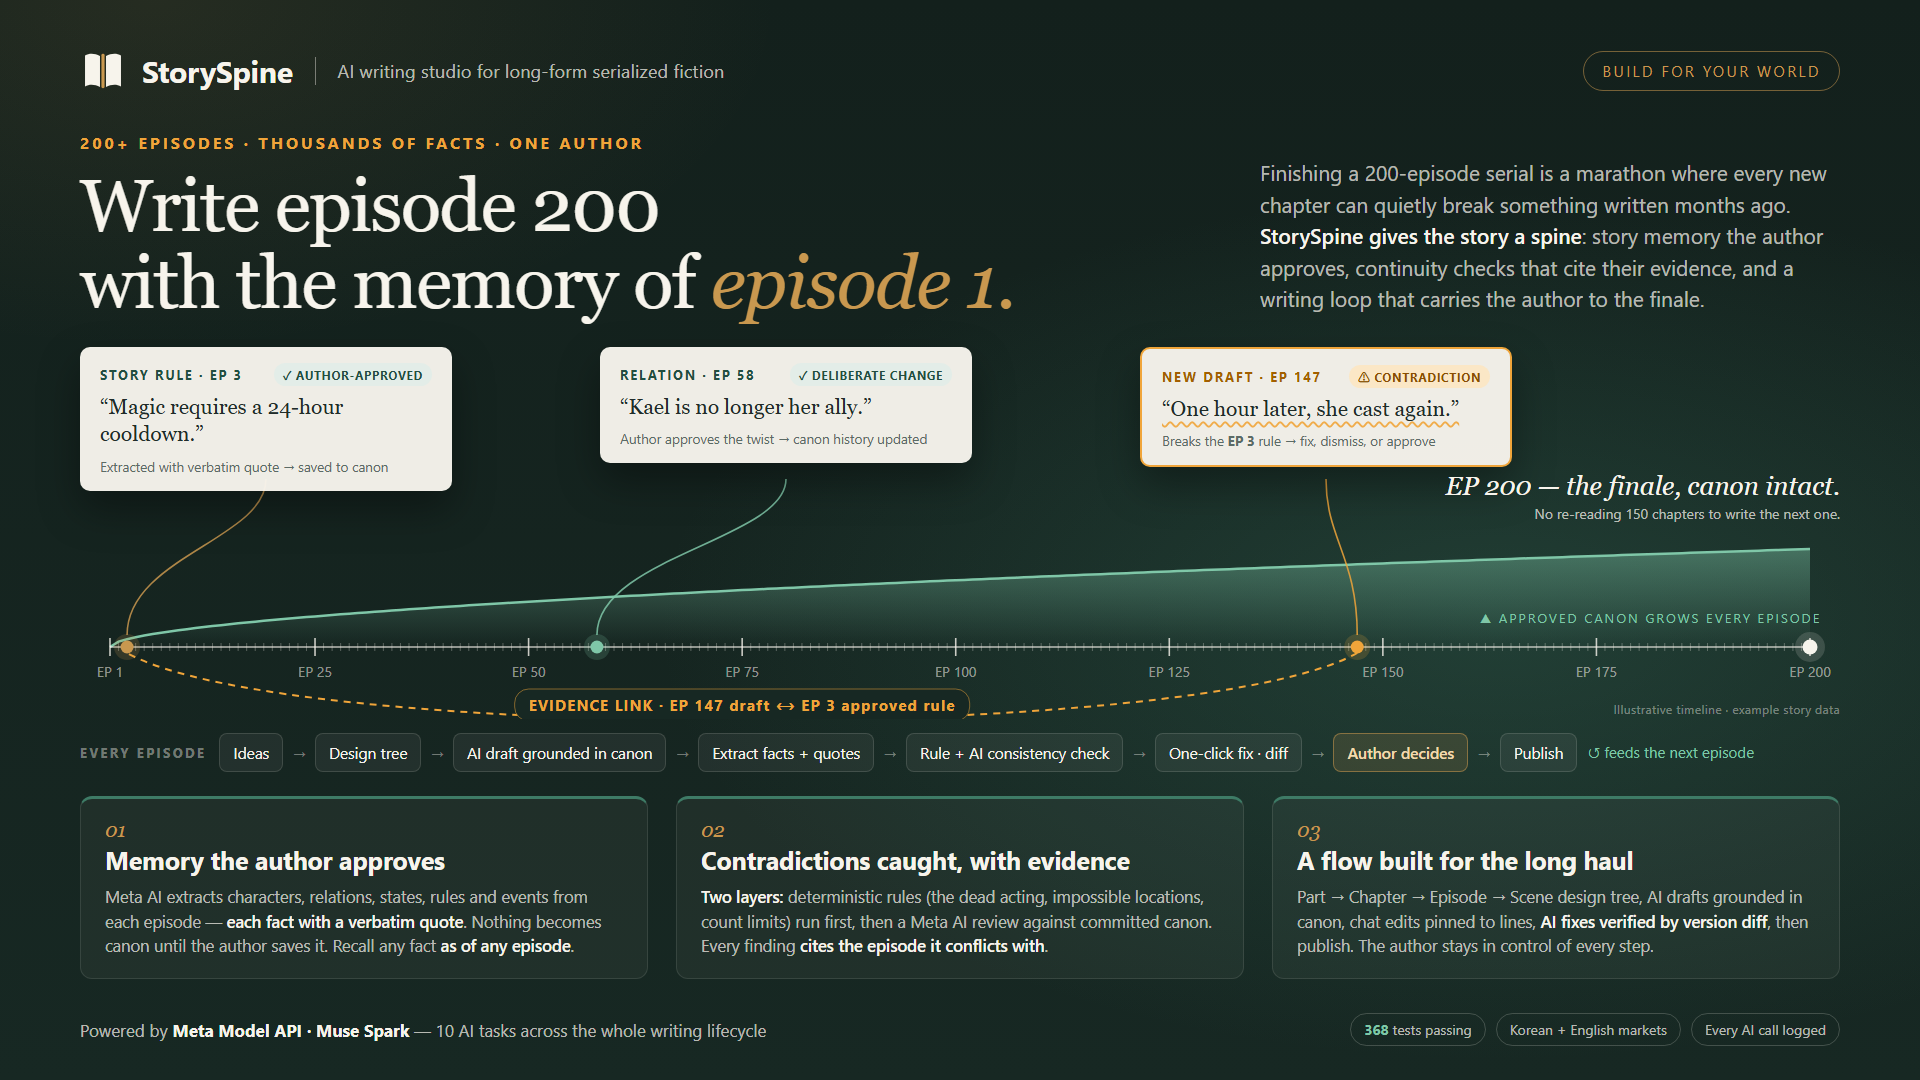
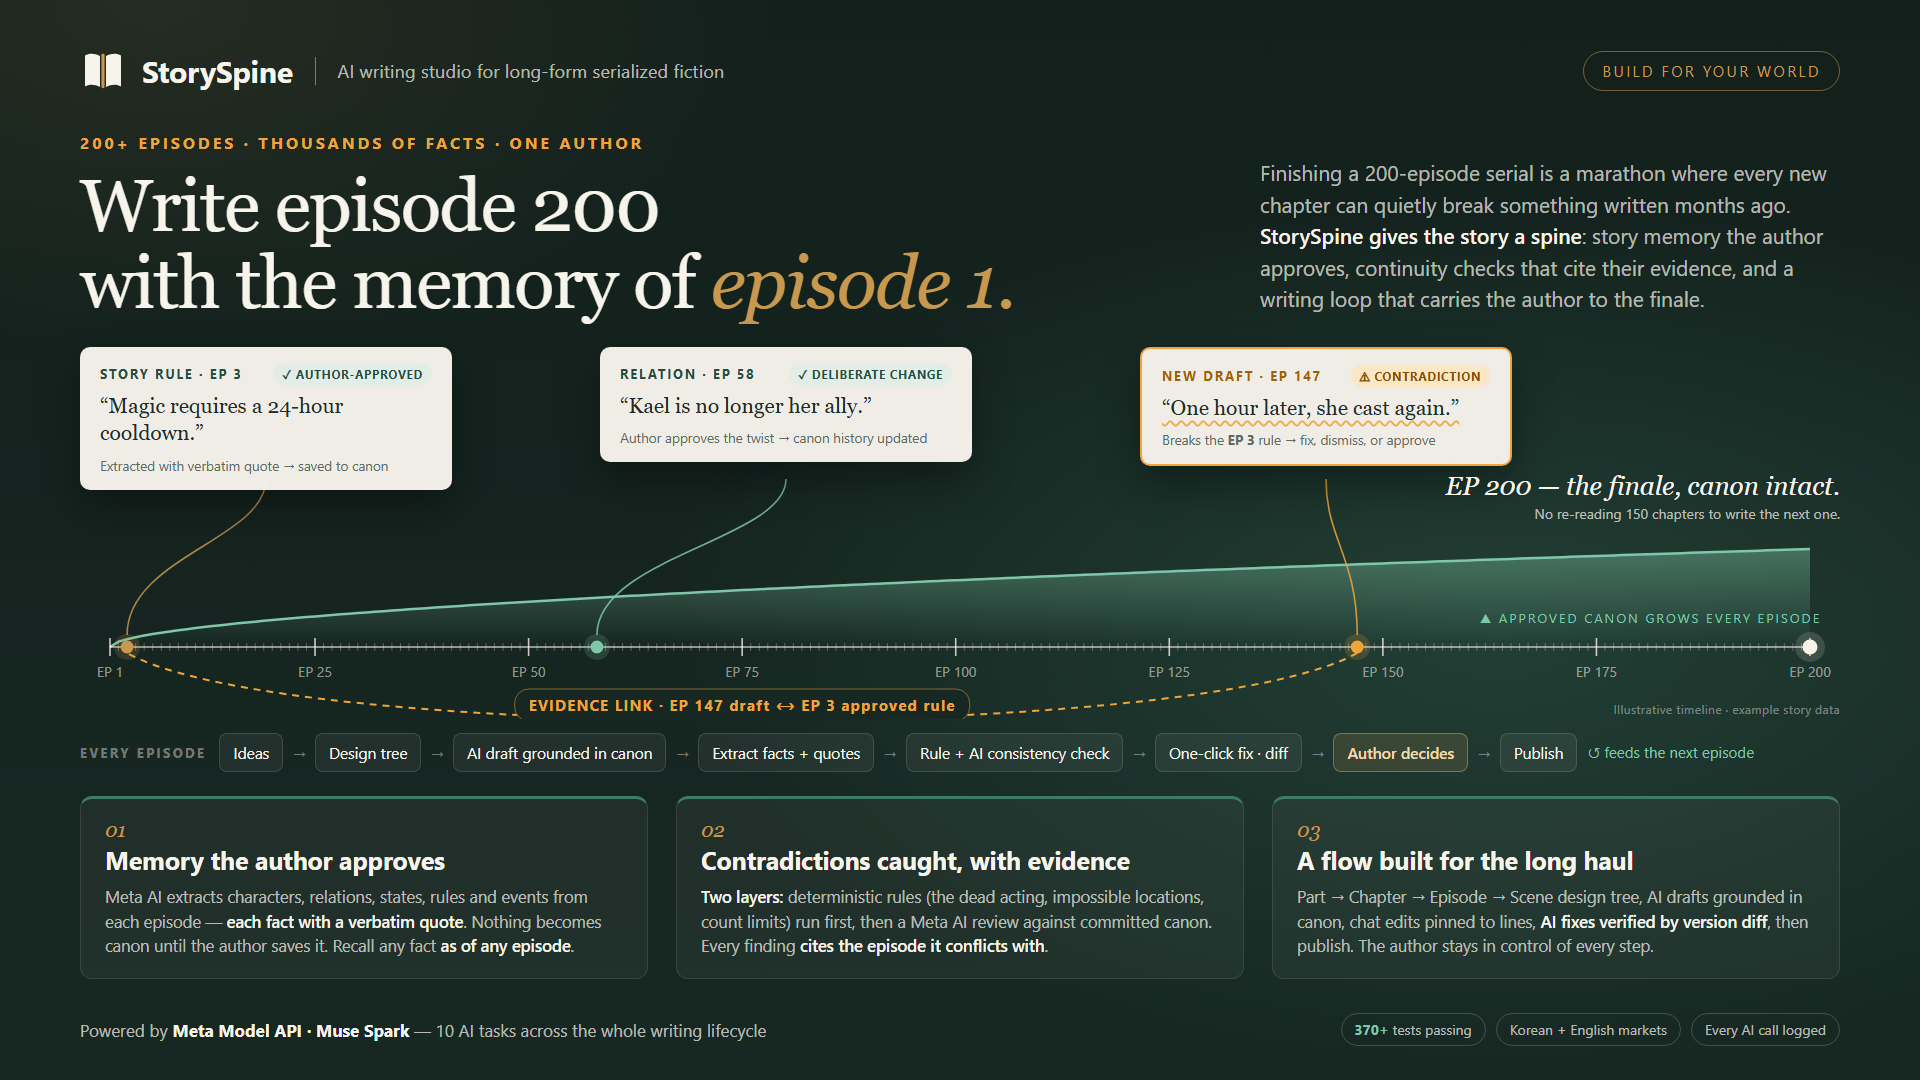
Update one-pager test badge 368 to 370+

diff --git a/docs/branding/storyspine/marketing/storyspine-onepager-en.html b/docs/branding/storyspine/marketing/storyspine-onepager-en.html
@@ -200,7 +200,7 @@
   <div class="foot">
     <div class="meta-line">Powered by <b>Meta Model API · Muse Spark</b> — 10 AI tasks across the whole writing lifecycle</div>
     <div class="chips">
-      <span class="chip"><b>368</b> tests passing</span>
+      <span class="chip"><b>370+</b> tests passing</span>
       <span class="chip">Korean + English markets</span>
       <span class="chip">Every AI call logged</span>
     </div>
